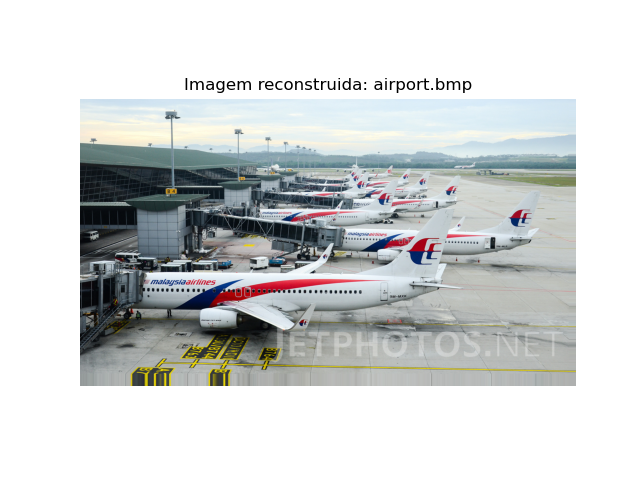
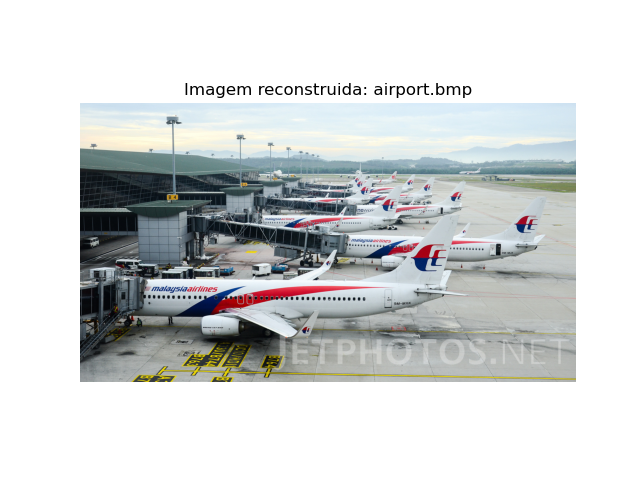
4.2 Remover Padding

Changed region(s): [[0.125, 0.1562, 0.9062, 0.8125]]

diff --git a/PythonMult/projeto1.py b/PythonMult/projeto1.py
@@ -17,8 +17,8 @@ def encoder(img):
     #Padding caso dimensão não seja multiplo de 32x32 (copia a ultima linha/coluna para preencher o espaço em falta)
     #4.1
     nl, nc= R.shape #n linhas e colunas
-    nl_pad= 32- nl%32
-    nc_pad= 32- nc%32
+    nl_pad= 32-(nl%32)
+    nc_pad= 32-(nc%32)
     R= np.pad(R, ((0, nl_pad), (0, nc_pad)), mode= 'edge') #edge= copia a ultima linha/coluna
     G= np.pad(G, ((0, nl_pad), (0, nc_pad)), mode= 'edge')
     B= np.pad(B, ((0, nl_pad), (0, nc_pad)), mode= 'edge')
@@ -36,8 +36,11 @@ def joinRGB(R, G, B):
 
     return imgRec
 
-def decoder(R,G,B):
+def decoder(R,G,B, tamOriginal):
     imgRec= joinRGB(R, G, B)
+    #4.2
+    #remover padding
+    imgRec= imgRec[:tamOriginal[0], :tamOriginal[1], :]
     return imgRec
 
 def showImg(img, cmap= None, caption= ""):
@@ -81,11 +84,10 @@ def main():
 
     #decoder
     #recebe rgb do encoder acima e calcula a imagem reconstruida
-    imgRec= decoder(R, G, B)
+    imgRec= decoder(R, G, B, img.shape)
     showImg(imgRec, caption= "Imagem reconstruida: " + fname)
     plt.savefig("imagens/" + fname + "_rec.png")
 
-    #4 padding
     plt.show()
 
 if __name__ == "__main__":
